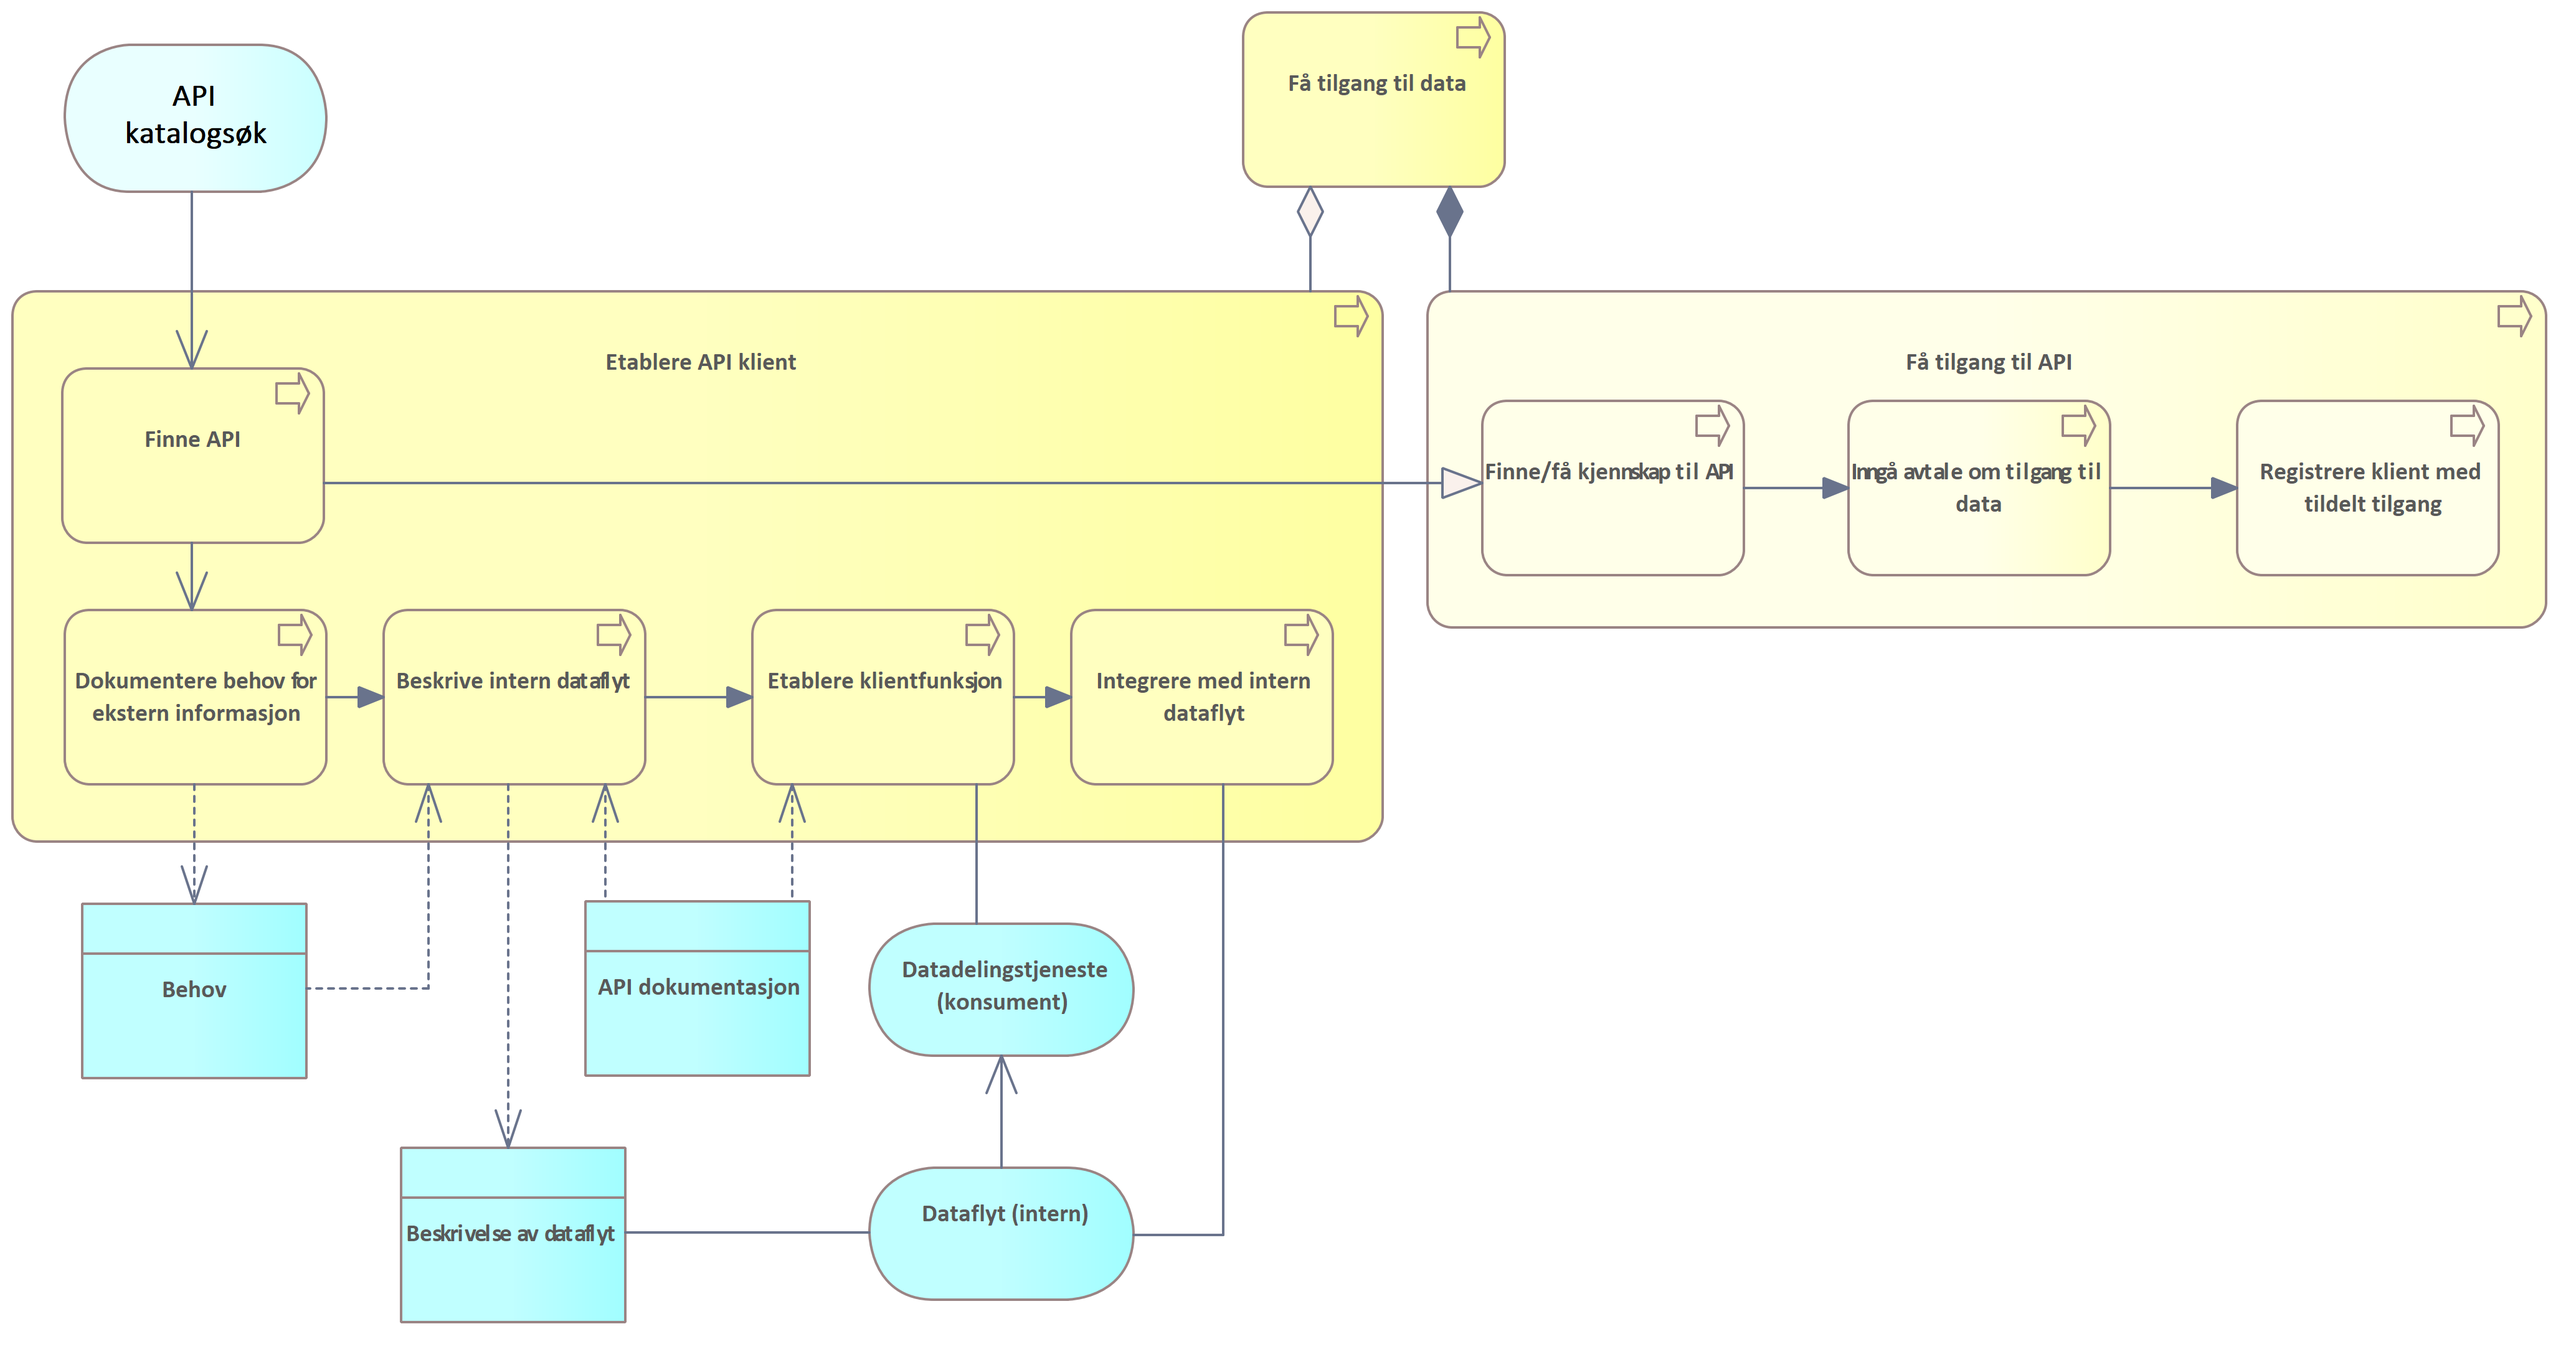
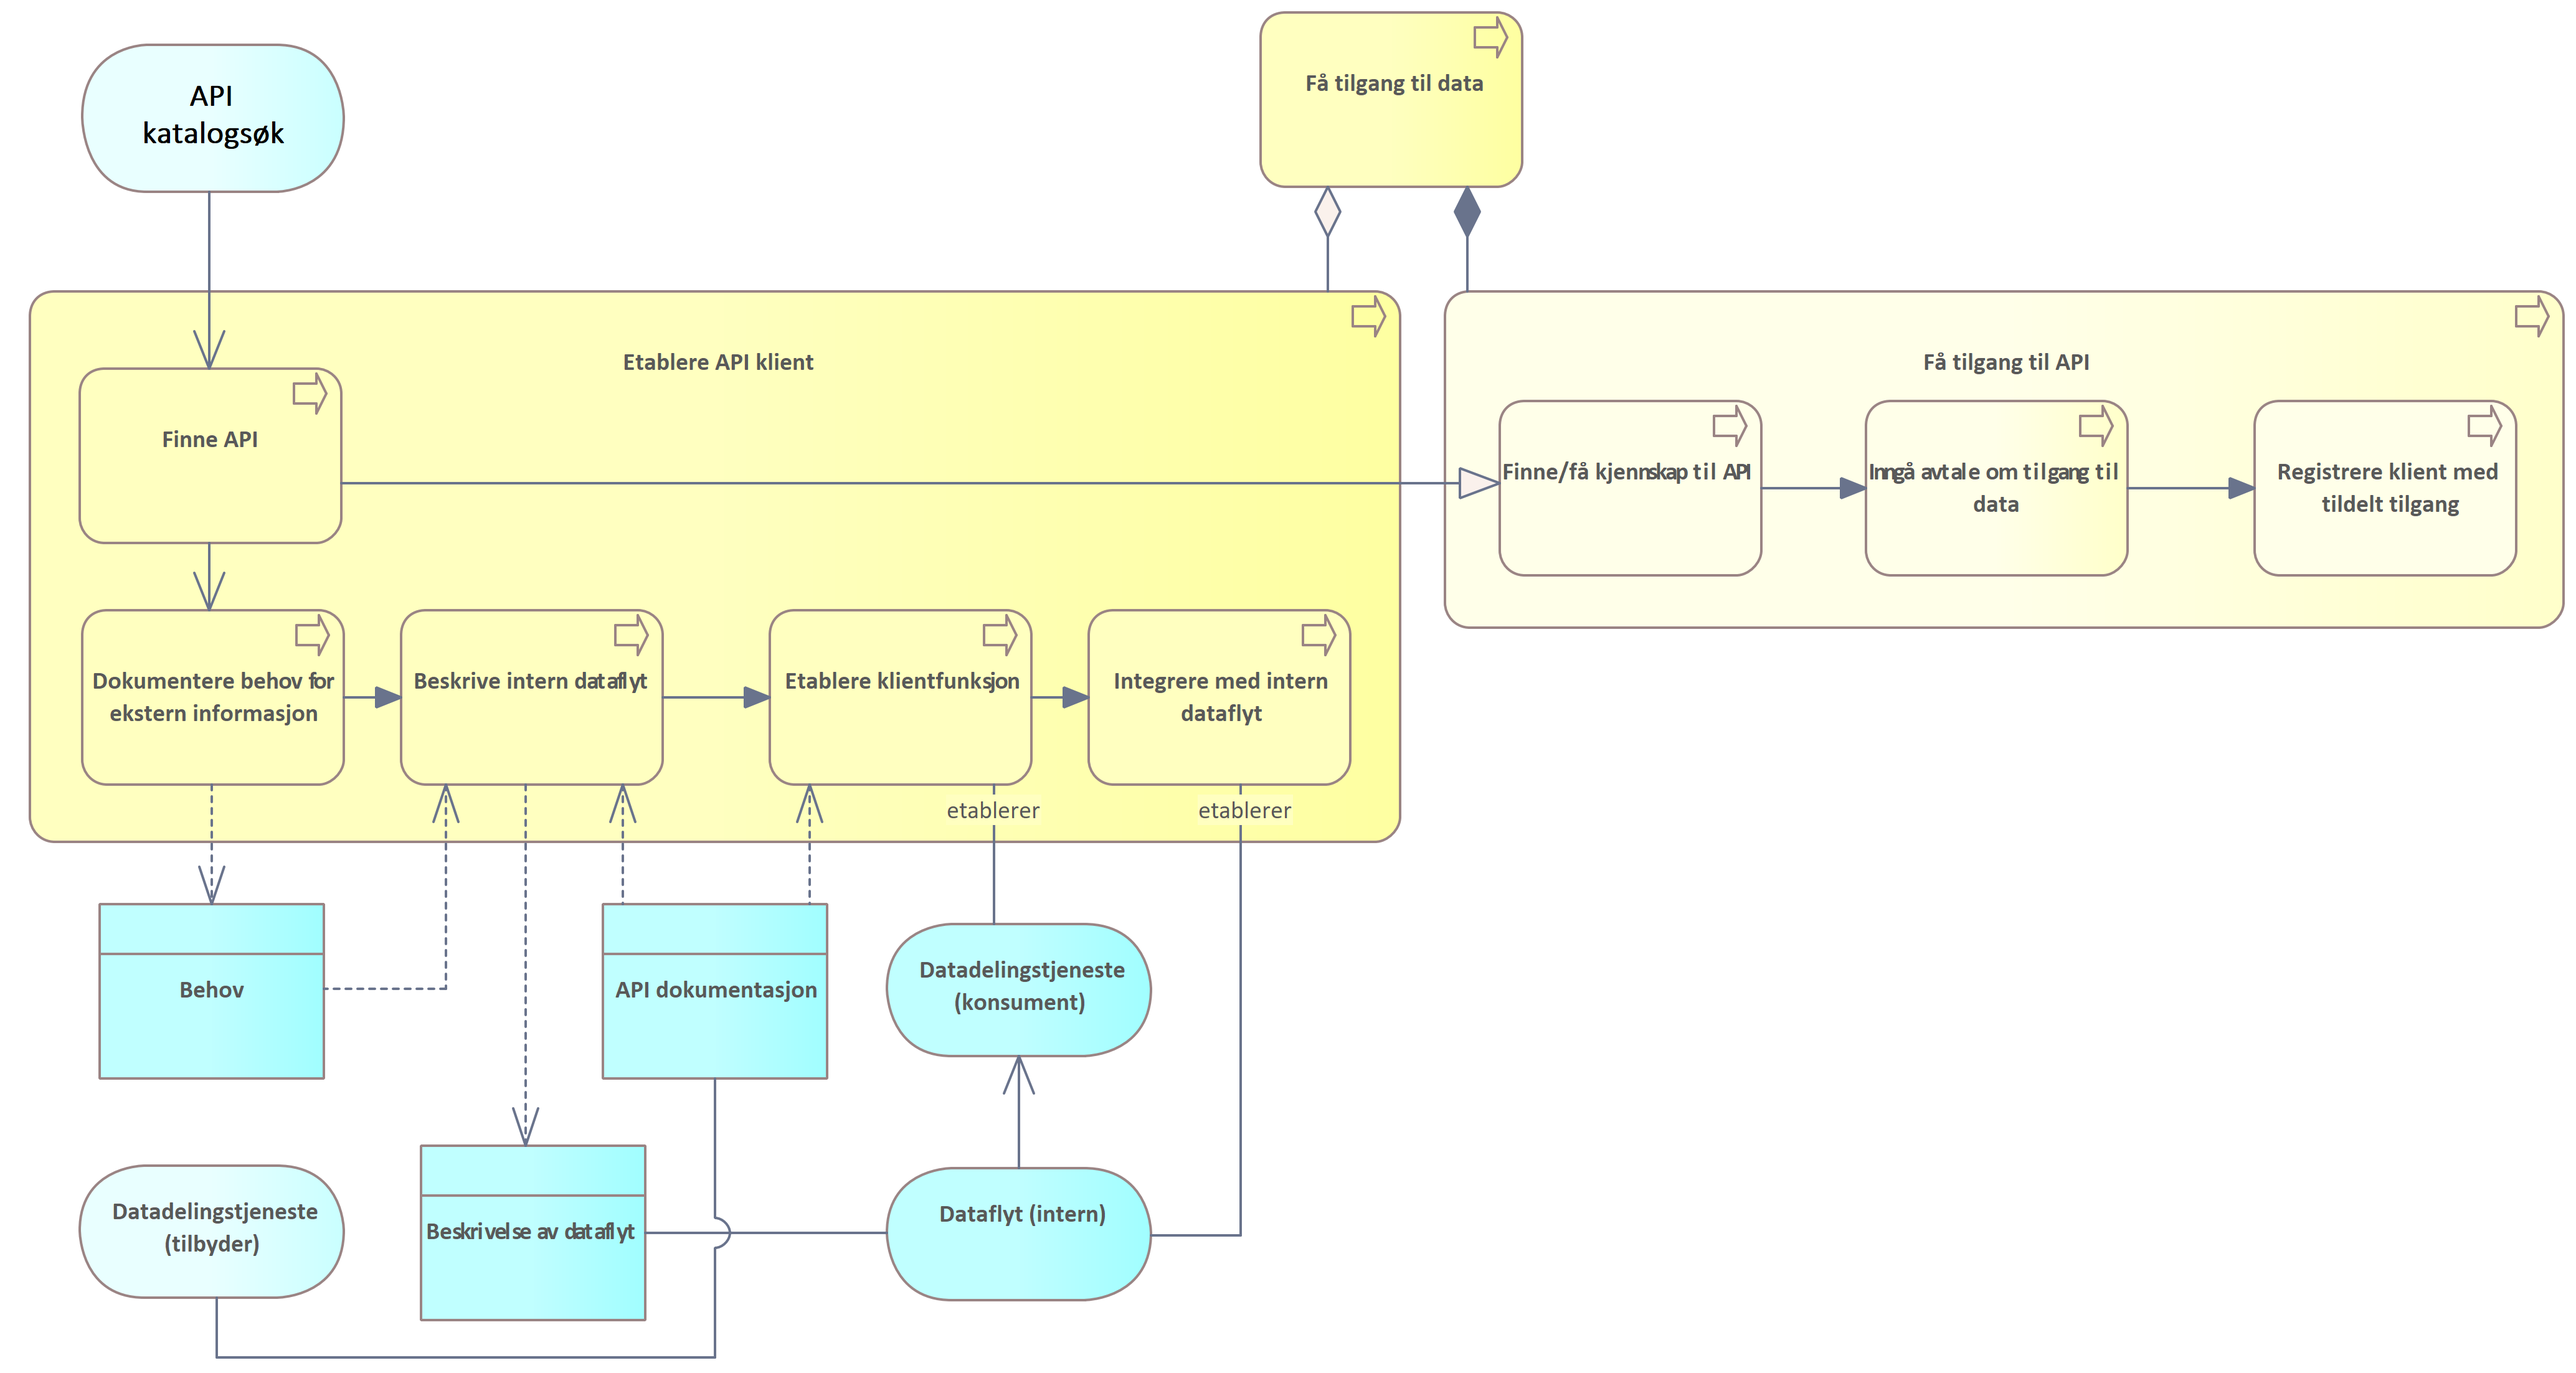
Datadeling datakonsument nye modeller

diff --git a/docs/Malarkitektur-datadeling.md b/docs/Malarkitektur-datadeling.md
@@ -170,6 +170,9 @@ Vi antar her at datakonsument har tilgang til API og er autentisert og autoriser
 
 Tre sentrale prosesser står sentralt for datakonsumenter som skal innhente informasjon ved hjelp av datadeling: *Få tilgang til data*, *Finne relevante data* og *Slå opp*.
 
+![Prosesser for datakonsumenter](img/datadeling-datakonsument.png)
+*Prosesser forbundet med rollen som datakonsument, inkludert de viktigste tjenestene som må etableres og integreres mot*
+
 ### Få tilgang til data
 
 Evnen til å skaffe seg tilgang til tilbudte data fra annen aktør. Omfatter evnen til å oppdage datakilder og sette opp funksjon (klient) for å ta i bruk datakilden. Videre må virksomheten beskrive hvordan den ønsker å integrere eksterne informasjon i intern dataflyt, inkludert hvordan interne fagsystem og mellomvare skal bruke, vise og lagre data fra eksterne. Det må etableres en klientfunksjon som tar i bruk api'et fra den eksterne datatilbyderen og denne må integreres med interne systemer.
